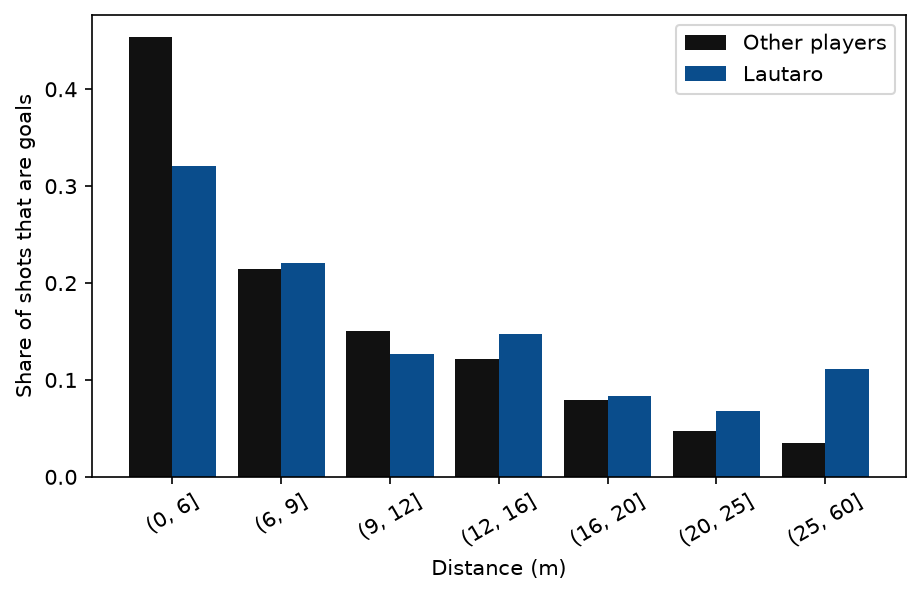
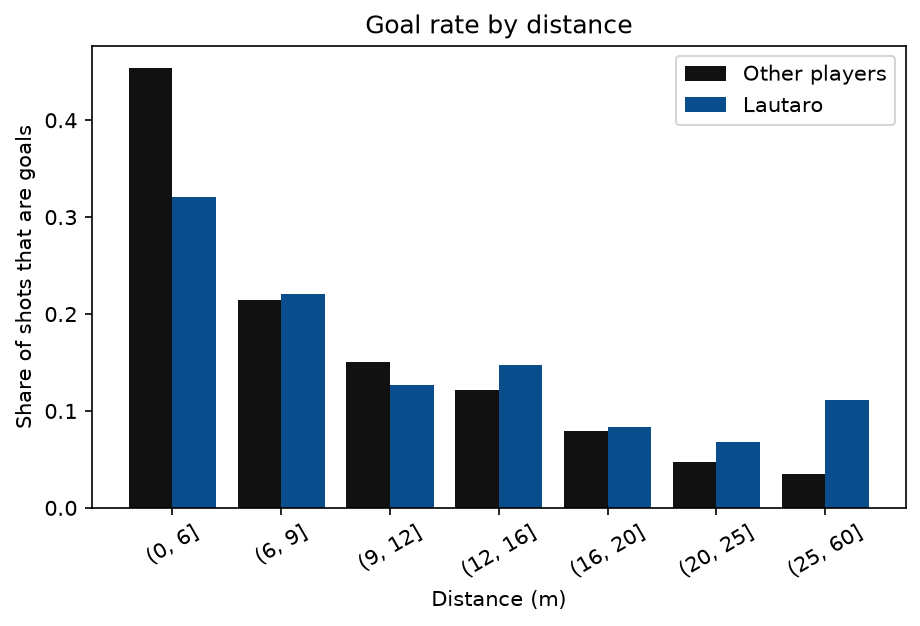
Fix typos in EDA file

diff --git a/src/eda.py b/src/eda.py
@@ -24,12 +24,13 @@ if __name__=="__main__":
     print("\nOther players:")
     print(others[["distance", "angle", "xG"]].describe().round(3))
     print("\nLautaro:")
-    print(others[["distance", "angle", "xG"]].describe().round(3))
-    print("\nGoal share others:", round(others["is_goal"].mean(), 3))
+    print(lautaro[["distance", "angle", "xG"]].describe().round(3))
+    print("\nGoal share others:", round(others["is_goal"].mean(), 3),
+          "| Lautaro:", round(lautaro["is_goal"].mean(), 3))
 
     fig, ax = plt.subplots(figsize=(6, 4))
     ax.hist(others["distance"], bins=30, density=True, alpha=0.6, color=GREY, label="Other players")
-    ax.hist(lautaro["distance"], bins=30, density=True, alpha=0.6, color=BLUE, label="Other players")
+    ax.hist(lautaro["distance"], bins=30, density=True, alpha=0.6, color=BLUE, label="Lautaro")
     ax.set_xlabel("Distance from goal centre (m)")
     ax.set_ylabel("Density")
     ax.set_title("Distribution of shot distance")
@@ -52,6 +53,7 @@ if __name__=="__main__":
     ax.set_xticklabels(rate_o.index.astype(str), rotation=30)
     ax.set_xlabel("Distance (m)")
     ax.set_ylabel("Share of shots that are goals")
+    ax.set_title("Goal rate by distance")
     ax.legend()
     save(fig, "02_goal_rate_by_distance")
 
